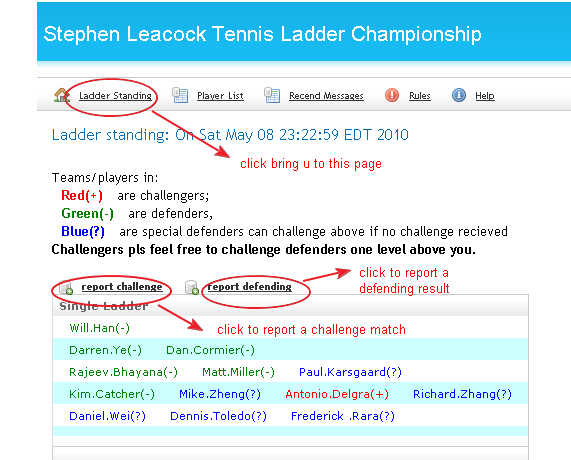
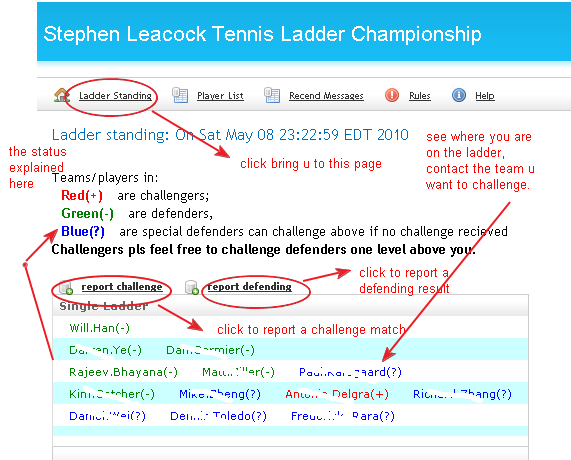
# 52 help & rules

diff --git a/web-app/help.html b/web-app/help.html
@@ -1,0 +1,74 @@
+<!DOCTYPE HTML PUBLIC "-//W3C//DTD HTML 4.0 Transitional//EN">
+<HTML>
+<HEAD>
+	<META HTTP-EQUIV="CONTENT-TYPE" CONTENT="text/html; charset=gb2312">
+	<TITLE></TITLE>
+	<META NAME="GENERATOR" CONTENT="OpenOffice.org 3.0  (Win32)">
+	<META NAME="CREATED" CONTENT="20100509;12041500">
+	<META NAME="CHANGED" CONTENT="20100509;13494600">
+	<META NAME="Info 1" CONTENT="">
+	<META NAME="Info 2" CONTENT="">
+	<META NAME="Info 3" CONTENT="">
+	<META NAME="Info 4" CONTENT="">
+	<STYLE TYPE="text/css">
+	<!--
+		@page { margin: 2cm }
+		P { margin-bottom: 0.21cm }
+		A:link { so-language: zxx }
+	-->
+	</STYLE>
+</HEAD>
+<BODY LANG="en-CA" DIR="LTR">
+<OL>
+	<LI><P STYLE="margin-bottom: 0cm">The main page</P>
+</OL>
+<P STYLE="margin-bottom: 0cm"><IMG SRC="help_html_m378060c6.jpg" NAME="graphics3" ALIGN=LEFT WIDTH=576 HEIGHT=292 BORDER=0><BR CLEAR=LEFT><BR>
+</P>
+<OL START=2>
+	<LI><P STYLE="margin-bottom: 0cm">Register your account</P>
+</OL>
+<P STYLE="margin-bottom: 0cm"><IMG SRC="help_html_m7939fecd.jpg" NAME="graphics1" ALIGN=LEFT WIDTH=502 HEIGHT=477 BORDER=0><BR CLEAR=LEFT><BR>
+</P>
+<OL START=3>
+	<LI><P STYLE="margin-bottom: 0cm">login into the system</P>
+</OL>
+<P STYLE="margin-bottom: 0cm"><IMG SRC="help_html_m6f52744d.jpg" NAME="graphics4" ALIGN=LEFT WIDTH=665 HEIGHT=267 BORDER=0><BR CLEAR=LEFT><BR>
+</P>
+<P STYLE="margin-bottom: 0cm"><BR>
+</P>
+<OL START=4>
+	<LI><P STYLE="margin-bottom: 0cm">after you login:</P>
+</OL>
+<P STYLE="margin-bottom: 0cm"><IMG SRC="help_html_7baef543.jpg" NAME="graphics2" ALIGN=LEFT WIDTH=665 HEIGHT=212 BORDER=0><BR CLEAR=LEFT><BR>
+</P>
+<OL START=5>
+	<LI><P STYLE="margin-bottom: 0cm">view the ladder</P>
+</OL>
+<P STYLE="margin-bottom: 0cm"><IMG SRC="help_html_m391727b2.jpg" NAME="graphics5" ALIGN=LEFT WIDTH=571 HEIGHT=460 BORDER=0><BR CLEAR=LEFT><BR>
+</P>
+<P STYLE="margin-bottom: 0cm"><BR>
+</P>
+<OL START=6>
+	<LI><P STYLE="margin-bottom: 0cm">send email or phone the team you
+	want to challenge, by rules they have to response within 5 days or
+	they will default their position to you.</P>
+</OL>
+<P STYLE="margin-bottom: 0cm"><IMG SRC="help_html_m6cdd352b.jpg" NAME="graphics7" ALIGN=LEFT WIDTH=539 HEIGHT=346 BORDER=0><BR CLEAR=LEFT><BR>
+</P>
+<OL START=7>
+	<LI><P STYLE="margin-bottom: 0cm">winner should report a match
+	result no later than  2 days after the match.</P>
+</OL>
+<P STYLE="margin-bottom: 0cm"><IMG SRC="help_html_4774110d.jpg" NAME="graphics6" ALIGN=LEFT WIDTH=548 HEIGHT=549 BORDER=0><BR CLEAR=LEFT><BR>
+</P>
+<P STYLE="margin-bottom: 0cm"><BR>
+</P>
+<OL START=8>
+	<LI><P STYLE="margin-bottom: 0cm">Any questions? Send me an 
+email:
+	<a href="mailto:ladder.stephen.leacock@gmail.com">ladder.stephen.leacock@gmail.com</a>
+</P>
+	<P STYLE="margin-bottom: 0cm"></P>
+</OL>
+</BODY>
+</HTML>
